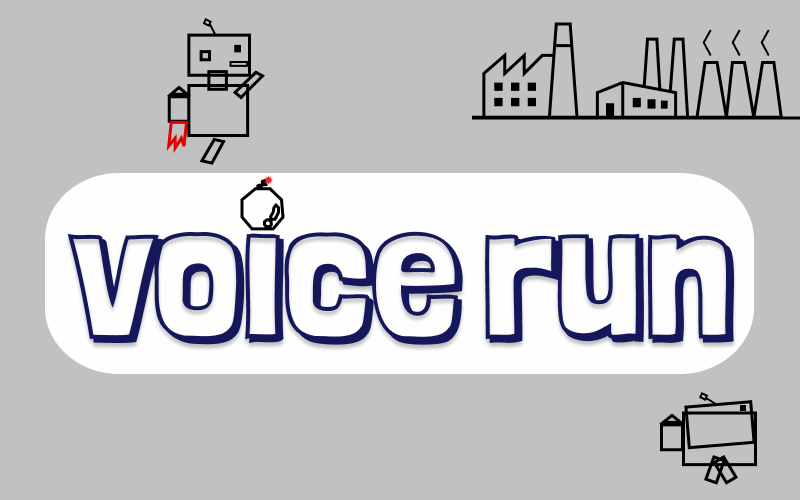
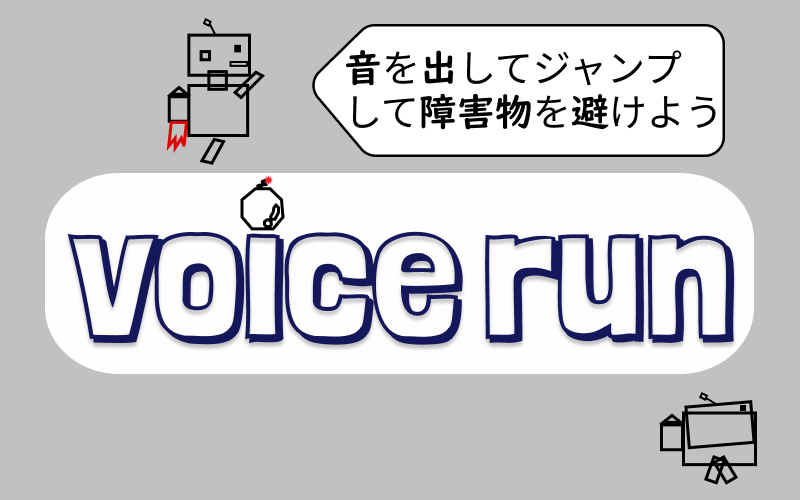
画面にそれ1と2でぞれぞれ説明を入れた。

Changed region(s): [[0.375, 0.03, 1.0, 0.33]]

diff --git a/game2(tentative).html b/game2(tentative).html
@@ -33,7 +33,7 @@
             <div class="inner">
                 
      <!-- ▼ js から要素を操作するように専用の ID 付与した -->
-     <div id="js-btn-list" class="btn-list">
+     <div id="js-btn-list" class="btn-list2">
 
         <a id="js-btn-start"  class="btn btn-border1"><span>start</span></a>
         

diff --git a/css/center.css b/css/center.css
@@ -15,7 +15,20 @@
 }
 
 .btn-list{
-background-image:url("../images/title.png");
+  background-image:url("../images/title.png");
+  position:absolute;
+  width:100%;
+  height:100%;
+  
+  top:0;
+  left:0;
+  
+  }
+  
+
+
+.btn-list2{
+background-image:url("../images/title2.png");
 position:absolute;
 width:100%;
 height:100%;
